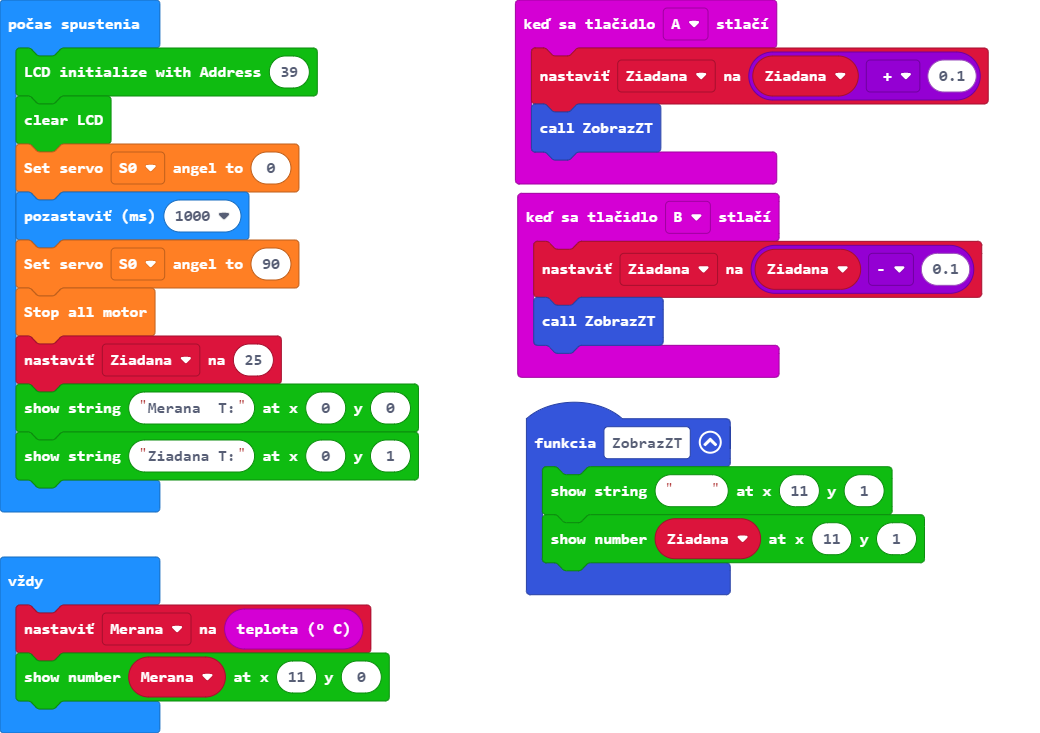
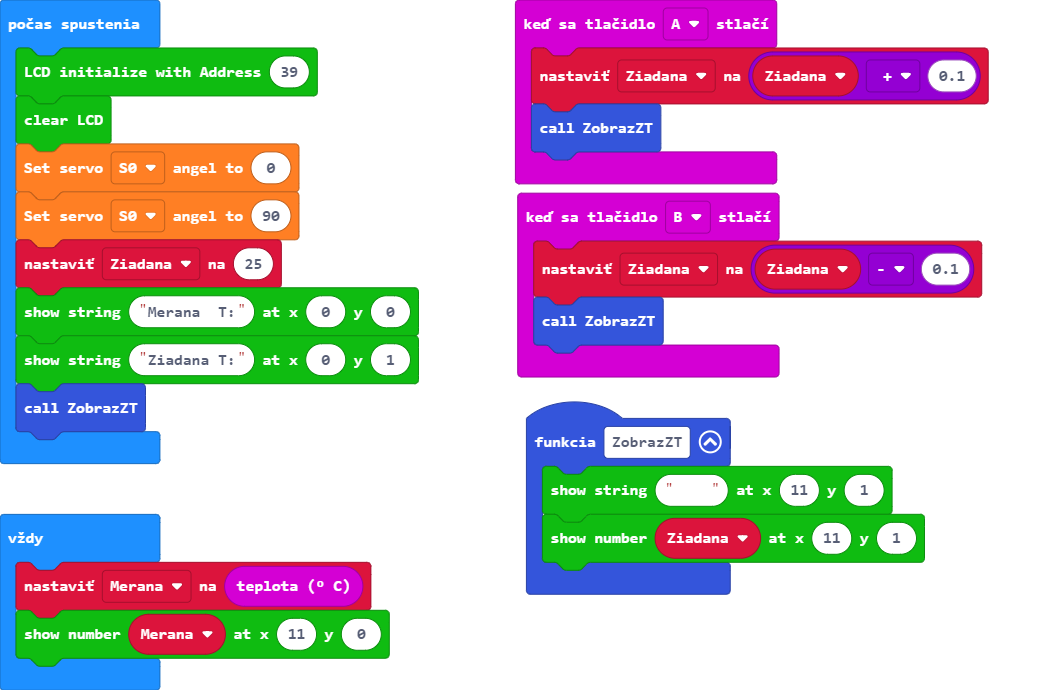
Update main.blocks, main.ts

diff --git a/main.ts b/main.ts
@@ -15,12 +15,11 @@ let Ziadana = 0
 I2C_LCD1602.LcdInit(39)
 I2C_LCD1602.clear()
 wuKong.setServoAngel(wuKong.ServoList.S0, 0)
-basic.pause(1000)
 wuKong.setServoAngel(wuKong.ServoList.S0, 90)
-wuKong.stopAllMotor()
 Ziadana = 25
 I2C_LCD1602.ShowString("Merana  T:", 0, 0)
 I2C_LCD1602.ShowString("Ziadana T:", 0, 1)
+ZobrazZT()
 basic.forever(function () {
     Merana = input.temperature()
     I2C_LCD1602.ShowNumber(Merana, 11, 0)
